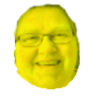
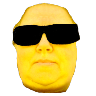
wefwefwf

diff --git a/main.js b/main.js
@@ -1325,33 +1325,41 @@ Game.Launch=function()
 	'<div class="title">&bull; Ga naar <a href="https://domains.tinekesieders.nl" target="_blank">https://domains.tinekesieders.nl</a> voor meer zoals dit.</div>'+
 
     '</div><div class="subsection update">'+
-	'<div class="title">01/10/2025 - Kleine patchnotes 7.35</div>'+
+	'<div class="title">01/10/2025 - Kleine Update v8.00</div>'+
+	'<div class="listing">&bull; Jan Eradus staat nu wel bij het Huis in het midden.</div>'+
+	'<div class="listing">&bull; Nieuwe Plaatjes als je over de winkel aan de rechterkant. (Jan Eradus, Dildo & Banaan Joran)</div>'+
+	'<div class="listing">&bull; Tineke Sieders heeft een nieuwe plaatje.</div>'+
+	'<div class="listing">&bull; 4 Upgrades en 20 Koekjes hebben nu Tineke Sieders haar hoofd.</div>'+
+	'<div class="listing">&bull; Een nieuwe & betere Golden Cookie, Best wel een blitze tineke hoofd.</div>'+
+
+    '</div><div class="subsection update">'+
+	'<div class="title">01/10/2025 - Kleine patchnotes v7.35</div>'+
 	'<div class="listing">&bull; NIEUWE AFBEELDING VOOR DE KOEKJE!!.</div>'+
 	'<div class="listing">&bull; Links onder staat nu de echte versie van het spel.</div>'+
 
 	'</div><div class="subsection update">'+
-	'<div class="title">25/09/2025 - Kleine patchnotes 7.3</div>'+
+	'<div class="title">25/09/2025 - Kleine patchnotes v7.3</div>'+
 	'<div class="listing">&bull; 2 Upgrade namen veranderd.</div>'+
 
 	'</div><div class="subsection update">'+
-	'<div class="title">10/09/2025 - Kleine patchnotes 7.2</div>'+
+	'<div class="title">10/09/2025 - Kleine patchnotes v7.2</div>'+
 	'<div class="listing">&bull; Een oma naam weg door de Eradus Man hemzelf.</div>'+
 
 	'</div><div class="subsection update">'+
-	'<div class="title">26/07/2025 - Kleine patchnotes 7.1 (verveelde me)</div>'+
+	'<div class="title">26/07/2025 - Kleine patchnotes v7.1 (verveelde me)</div>'+
 	'<div class="listing">&bull; 2 Nieuwe duiven toegevoegd.</div>'+
 
     '</div><div class="subsection update">'+
-	'<div class="title">25/07/2025 - Kleine patchnotes 7.0</div>'+
+	'<div class="title">25/07/2025 - Kleine patchnotes v7.0</div>'+
 	'<div class="listing">&bull; Dood project dit eig, maar een paar afbeeldingen veranderd.</div>'+
 
     '</div><div class="subsection update">'+
-	'<div class="title">08/05/2025 - Kleine patchnotes 6.0</div>'+
+	'<div class="title">08/05/2025 - Kleine patchnotes v6.0</div>'+
 	'<div class="listing">&bull; Erfenis veranderd naar Rebirth, Klinkt mooier.</div>'+
 	'<div class="listing">&bull; 3 Nieuwe oma namen.</div>'+
 	
     '</div><div class="subsection update">'+
-	'<div class="title">08/05/2025 - Kleine patchnotes 5.5</div>'+
+	'<div class="title">08/05/2025 - Kleine patchnotes v5.5</div>'+
 	'<div class="listing">&bull; De Javascript bestand, (waar dus alle code instaat voor de game) was kapot en niks wou laden, Dit is nu weer gefixed.</div>'+
 	
 	'</div><div class="subsection update">'+

diff --git a/index.html b/index.html
@@ -16,9 +16,7 @@
 
   gtag('config', 'G-ZCKJGX68EZ');
 
-</script>
- window.cmp_noscreen = true;
-</script>
+
 
 </script>
 
@@ -44,7 +42,7 @@
 
 
 <script>
-var VERSION=7.35;
+var VERSION=8;
 var BETA=0;
 var App=typeof App==='undefined'?0:App;
 </script>
@@ -59,6 +57,10 @@ var App=typeof App==='undefined'?0:App;
         ezstandalone.showAds(101);
     });
 </script>
+
+</script>
+ window.cmp_noscreen = true;
+</script>
 <!-- /ad -->
 
 <!--[if IE]>
@@ -71,7 +73,7 @@ var App=typeof App==='undefined'?0:App;
 </head>
 <body>
 
-	<p> Tineke Klikker is het beste spel van planeet aarde! Het is verslavend, Zijn veel dingen om te doen en het is gewoon een leuk spel! 
+	<p> Tineke Klikker is het beste spel van planeet aarde! Het is verslavend, Zijn veel dingen om te doen en het is gewoon een heel leuk klikker game! 
 	</p>
 
 <div id="wrapper">

diff --git a/admin.html b/admin.html
@@ -31,8 +31,8 @@ const db = getDatabase(app);
 
 // Map emails to usernames
 const userNames = {
-  "admin@example.com": "Admin",
-  "other@example.com": "Mod",
+  "broodmanneke@tinekesieders.nl": "Brood",
+  "gerardjoling@tinekesieders.nl": "Gerard Joling",
 };
 
 // DOM Elements
